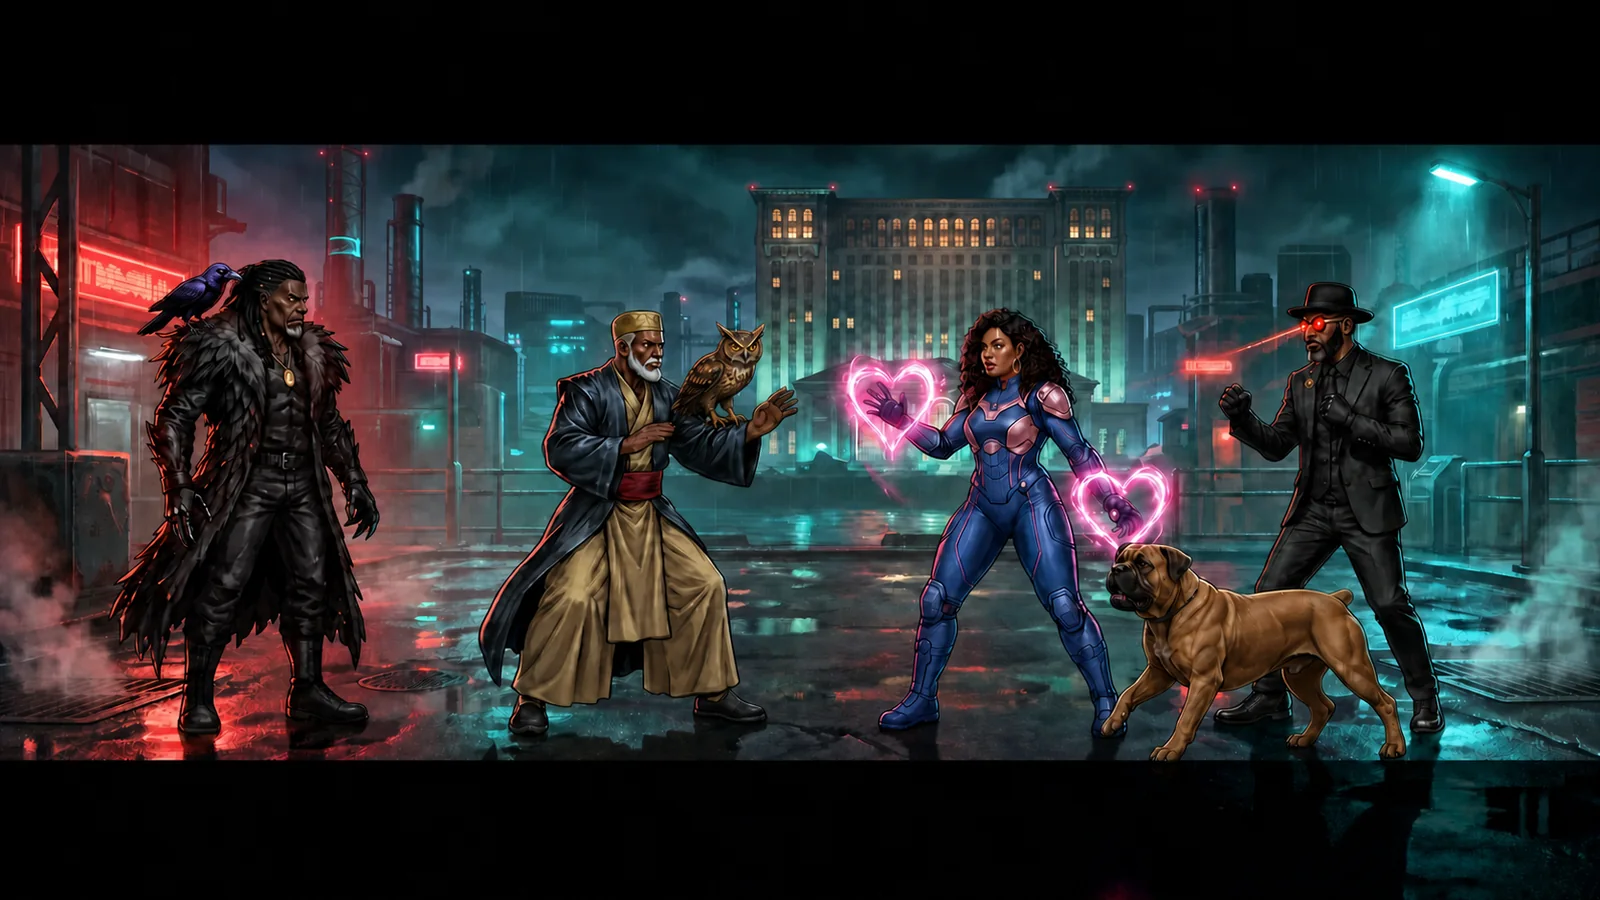
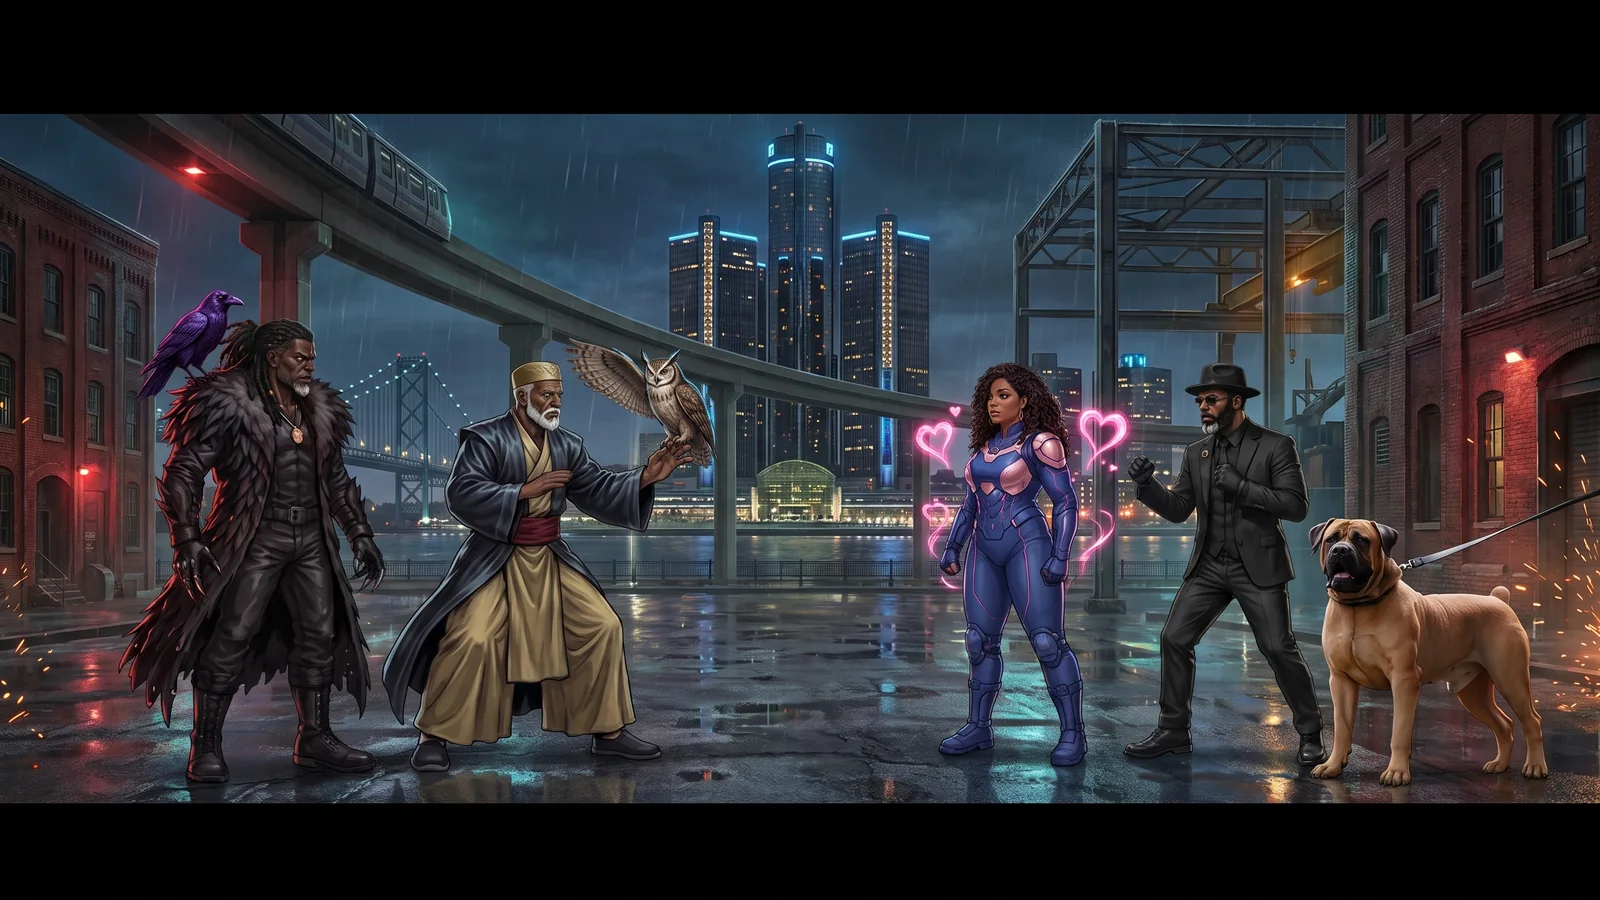
Center title art on Detroit

diff --git a/lottominded-ultra.io/games/gothtechnology2/src/scenes/game.js b/lottominded-ultra.io/games/gothtechnology2/src/scenes/game.js
@@ -1,17 +1,17 @@
-import { ASSET_URLS, COMMERCIAL_URLS, FIGHTERS } from "../config/assets.js?v=heartline34-full-cast-title";
-import { arcadeRouteFor, GAME_MODES, ROSTER_CARD_LAYOUT, ROSTER_IDS, STAGES, opponentFor } from "../config/content.js?v=heartline34-full-cast-title";
-import { ASSISTS, ATTACKS } from "../config/moves.js?v=heartline34-full-cast-title";
-import { CANVAS_HEIGHT, CANVAS_WIDTH, COLORS, GROUND_Y, PHASE, ROUND_SECONDS, WORLD } from "../config/constants.js?v=heartline34-full-cast-title";
-import { AssetLoader } from "../engine/assets.js?v=heartline34-full-cast-title";
-import { WebAudioBus } from "../engine/audio.js?v=heartline34-full-cast-title";
-import { InputManager } from "../engine/input.js?v=heartline34-full-cast-title";
-import { clamp, rectsOverlap } from "../engine/math.js?v=heartline34-full-cast-title";
-import { applyHit, resolveMelee } from "../gameplay/combat.js?v=heartline34-full-cast-title";
-import { CpuController } from "../gameplay/cpu.js?v=heartline34-full-cast-title";
-import { AttachedSpriteEffect, LovePulseEffect, SpriteEffect } from "../gameplay/effects.js?v=heartline34-full-cast-title";
-import { Fighter } from "../gameplay/fighter.js?v=heartline34-full-cast-title";
-import { AssistStrike, BoerboelStrike, Projectile } from "../gameplay/projectiles.js?v=heartline34-full-cast-title";
-import { applyRoundOutcomeMotions, resolveRoundOutcome } from "../gameplay/rounds.js?v=heartline34-full-cast-title";
+import { ASSET_URLS, COMMERCIAL_URLS, FIGHTERS } from "../config/assets.js?v=heartline35-detroit-title";
+import { arcadeRouteFor, GAME_MODES, ROSTER_CARD_LAYOUT, ROSTER_IDS, STAGES, opponentFor } from "../config/content.js?v=heartline35-detroit-title";
+import { ASSISTS, ATTACKS } from "../config/moves.js?v=heartline35-detroit-title";
+import { CANVAS_HEIGHT, CANVAS_WIDTH, COLORS, GROUND_Y, PHASE, ROUND_SECONDS, WORLD } from "../config/constants.js?v=heartline35-detroit-title";
+import { AssetLoader } from "../engine/assets.js?v=heartline35-detroit-title";
+import { WebAudioBus } from "../engine/audio.js?v=heartline35-detroit-title";
+import { InputManager } from "../engine/input.js?v=heartline35-detroit-title";
+import { clamp, rectsOverlap } from "../engine/math.js?v=heartline35-detroit-title";
+import { applyHit, resolveMelee } from "../gameplay/combat.js?v=heartline35-detroit-title";
+import { CpuController } from "../gameplay/cpu.js?v=heartline35-detroit-title";
+import { AttachedSpriteEffect, LovePulseEffect, SpriteEffect } from "../gameplay/effects.js?v=heartline35-detroit-title";
+import { Fighter } from "../gameplay/fighter.js?v=heartline35-detroit-title";
+import { AssistStrike, BoerboelStrike, Projectile } from "../gameplay/projectiles.js?v=heartline35-detroit-title";
+import { applyRoundOutcomeMotions, resolveRoundOutcome } from "../gameplay/rounds.js?v=heartline35-detroit-title";
 import {
   drawCharacterSelect,
   drawArcadeEnding,
@@ -24,7 +24,7 @@ import {
   drawRoundMessage,
   drawTitle,
   drawVersus
-} from "../ui/hud.js?v=heartline34-full-cast-title";
+} from "../ui/hud.js?v=heartline35-detroit-title";
 
 const GAME_SELECT_ITEMS = [
   {

diff --git a/lottominded-ultra.io/games/gothtechnology2/src/gameplay/fighter.js b/lottominded-ultra.io/games/gothtechnology2/src/gameplay/fighter.js
@@ -1,9 +1,9 @@
-import { GRAVITY, GROUND_Y, WORLD } from "../config/constants.js?v=heartline34-full-cast-title";
-import { ATTACKS } from "../config/moves.js?v=heartline34-full-cast-title";
-import { drawSpriteFrame } from "../engine/assets.js?v=heartline34-full-cast-title";
-import { approach, clamp, makeRect } from "../engine/math.js?v=heartline34-full-cast-title";
-import { attackIntentFromActions, resolveCancelAttack } from "./commands.js?v=heartline34-full-cast-title";
-import { SpriteEffect } from "./effects.js?v=heartline34-full-cast-title";
+import { GRAVITY, GROUND_Y, WORLD } from "../config/constants.js?v=heartline35-detroit-title";
+import { ATTACKS } from "../config/moves.js?v=heartline35-detroit-title";
+import { drawSpriteFrame } from "../engine/assets.js?v=heartline35-detroit-title";
+import { approach, clamp, makeRect } from "../engine/math.js?v=heartline35-detroit-title";
+import { attackIntentFromActions, resolveCancelAttack } from "./commands.js?v=heartline35-detroit-title";
+import { SpriteEffect } from "./effects.js?v=heartline35-detroit-title";
 
 const MOTION_LOCKS = new Set([
   "LIGHT_PUNCH",

diff --git a/lottominded-ultra.io/games/gothtechnology2/src/ui/hud.js b/lottominded-ultra.io/games/gothtechnology2/src/ui/hud.js
@@ -1,7 +1,7 @@
-import { CANVAS_HEIGHT, CANVAS_WIDTH, COLORS, ROUND_SECONDS } from "../config/constants.js?v=heartline34-full-cast-title";
-import { FIGHTERS } from "../config/assets.js?v=heartline34-full-cast-title";
-import { GAME_MODES, ROSTER_CARD_LAYOUT, ROSTER_IDS, STAGES } from "../config/content.js?v=heartline34-full-cast-title";
-import { drawSpriteFrame } from "../engine/assets.js?v=heartline34-full-cast-title";
+import { CANVAS_HEIGHT, CANVAS_WIDTH, COLORS, ROUND_SECONDS } from "../config/constants.js?v=heartline35-detroit-title";
+import { FIGHTERS } from "../config/assets.js?v=heartline35-detroit-title";
+import { GAME_MODES, ROSTER_CARD_LAYOUT, ROSTER_IDS, STAGES } from "../config/content.js?v=heartline35-detroit-title";
+import { drawSpriteFrame } from "../engine/assets.js?v=heartline35-detroit-title";
 
 const FUTURE = {
   cyan: "#67e8ff",

diff --git a/lottominded-ultra.io/games/gothtechnology2/src/gameplay/combat.js b/lottominded-ultra.io/games/gothtechnology2/src/gameplay/combat.js
@@ -1,7 +1,7 @@
-import { rectsOverlap } from "../engine/math.js?v=heartline34-full-cast-title";
-import { ATTACKS } from "../config/moves.js?v=heartline34-full-cast-title";
-import { FloatingText, LovePulseEffect, SpriteEffect } from "./effects.js?v=heartline34-full-cast-title";
-import { registerAttackHit, sliceAttackForHit } from "./hits.js?v=heartline34-full-cast-title";
+import { rectsOverlap } from "../engine/math.js?v=heartline35-detroit-title";
+import { ATTACKS } from "../config/moves.js?v=heartline35-detroit-title";
+import { FloatingText, LovePulseEffect, SpriteEffect } from "./effects.js?v=heartline35-detroit-title";
+import { registerAttackHit, sliceAttackForHit } from "./hits.js?v=heartline35-detroit-title";
 
 export function resolveMelee(attacker, defender, game) {
   const attackState = attacker.currentAttack;

diff --git a/lottominded-ultra.io/games/gothtechnology2/src/main.js b/lottominded-ultra.io/games/gothtechnology2/src/main.js
@@ -1,7 +1,7 @@
-import { FIGHTERS } from "./config/assets.js?v=heartline34-full-cast-title";
-import { COMMAND_LISTS, GAME_MODES, ROSTER_IDS } from "./config/content.js?v=heartline34-full-cast-title";
-import { GothTechnologyGame } from "./scenes/game.js?v=heartline34-full-cast-title";
-import { PHASE } from "./config/constants.js?v=heartline34-full-cast-title";
+import { FIGHTERS } from "./config/assets.js?v=heartline35-detroit-title";
+import { COMMAND_LISTS, GAME_MODES, ROSTER_IDS } from "./config/content.js?v=heartline35-detroit-title";
+import { GothTechnologyGame } from "./scenes/game.js?v=heartline35-detroit-title";
+import { PHASE } from "./config/constants.js?v=heartline35-detroit-title";
 
 const syncViewportHeight = () => {
   document.documentElement.style.setProperty("--app-height", `${window.innerHeight}px`);

diff --git a/lottominded-ultra.io/games/gothtechnology2/src/gameplay/projectiles.js b/lottominded-ultra.io/games/gothtechnology2/src/gameplay/projectiles.js
@@ -1,7 +1,7 @@
-import { drawSheetFrame } from "../engine/assets.js?v=heartline34-full-cast-title";
-import { rectsOverlap } from "../engine/math.js?v=heartline34-full-cast-title";
-import { LovePulseEffect, SpriteEffect } from "./effects.js?v=heartline34-full-cast-title";
-import { sliceAttackForHit } from "./hits.js?v=heartline34-full-cast-title";
+import { drawSheetFrame } from "../engine/assets.js?v=heartline35-detroit-title";
+import { rectsOverlap } from "../engine/math.js?v=heartline35-detroit-title";
+import { LovePulseEffect, SpriteEffect } from "./effects.js?v=heartline35-detroit-title";
+import { sliceAttackForHit } from "./hits.js?v=heartline35-detroit-title";
 
 const hexAlpha = (color, alpha) => {
   if (!color?.startsWith("#") || color.length !== 7) return color;

diff --git a/lottominded-ultra.io/games/gothtechnology2/src/config/assets.js b/lottominded-ultra.io/games/gothtechnology2/src/config/assets.js
@@ -1,6 +1,6 @@
 export const PACK_ROOT = "assets/GOTHTECHNOLOGY_EXPANDED_SPRITE_PACK_V2";
 export const LOCAL_ROOT = "assets";
-export const MOTION_ASSET_VERSION = "heartline34-full-cast-title";
+export const MOTION_ASSET_VERSION = "heartline35-detroit-title";
 
 export const COMMERCIAL_URLS = [
   `${LOCAL_ROOT}/commercials/detroit-commercial-01.mp4`,

diff --git a/lottominded-ultra.io/games/gothtechnology2/src/gameplay/effects.js b/lottominded-ultra.io/games/gothtechnology2/src/gameplay/effects.js
@@ -1,4 +1,4 @@
-import { drawSheetFrame } from "../engine/assets.js?v=heartline34-full-cast-title";
+import { drawSheetFrame } from "../engine/assets.js?v=heartline35-detroit-title";
 
 export class SpriteEffect {
   constructor({ x, y, image, cellW = 256, cellH = 256, frames = 8, duration = 0.42, scale = 1, flip = false, alpha = 1 }) {

diff --git a/lottominded-ultra.io/games/gothtechnology2/index.html b/lottominded-ultra.io/games/gothtechnology2/index.html
@@ -826,6 +826,6 @@
       </section>
     </div>
     <script src="../../assets/js/lm-game-rewards-sdk.js?v=rewards-sdk-1"></script>
-    <script type="module" src="./src/main.js?v=heartline34-full-cast-title"></script>
+    <script type="module" src="./src/main.js?v=heartline35-detroit-title"></script>
   </body>
 </html>

diff --git a/lottominded-ultra.io/games/gothtechnology2/src/engine/assets.js b/lottominded-ultra.io/games/gothtechnology2/src/engine/assets.js
@@ -1,4 +1,4 @@
-import { ASSET_URLS, MOTION_ASSET_VERSION, MOTION_PLAYBACK } from "../config/assets.js?v=heartline34-full-cast-title";
+import { ASSET_URLS, MOTION_ASSET_VERSION, MOTION_PLAYBACK } from "../config/assets.js?v=heartline35-detroit-title";
 
 const imageCache = new Map();
 
